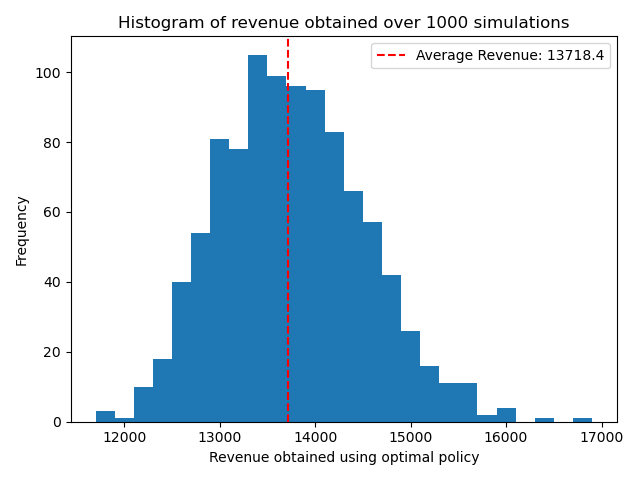
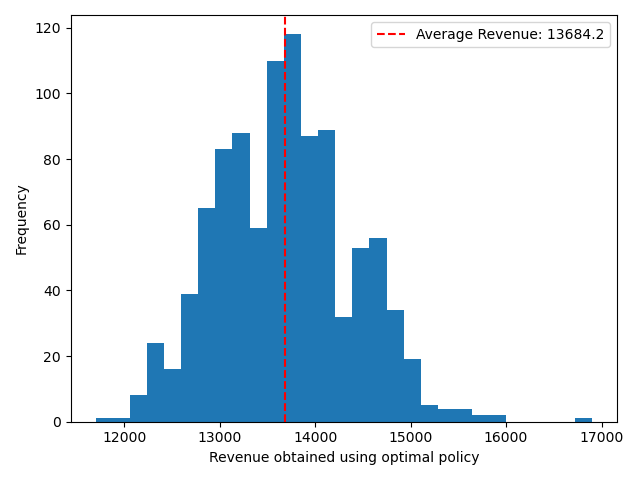
done

diff --git a/assignment1/ass1.py b/assignment1/ass1.py
@@ -75,6 +75,8 @@ def basic_inventory_dp(T_dim:int, X_dim:int, A:list, P:list,
             DP,
             POLICY)
 
+
+
 def plot_policy(Td:int, Xd:int, pol:ndarray, Actions:list,
                 name:str, show:bool = False)->None:
     X, Y = meshgrid(list(range(Td-1)),
@@ -101,12 +103,24 @@ def plot_policy(Td:int, Xd:int, pol:ndarray, Actions:list,
         plt.show()
     plt.close()
     
+
+
 def simulate(Td:int, Xd:int, A:list, P:list, policy:ndarray, 
              n_sim:int = 1000, show:bool = False) -> float:
+    '''
+    Produces histogram of revenue earned in T time over n simulations
+    Also produces an example plot earnings in a given simulation
+    '''
     maxrewards = []
-    for _ in range(n_sim):
+    for sim in range(n_sim):
         x = Xd - 1 
         revenue = 0
+
+        # example revenue plot
+        if sim == 0:
+            inventory_levels = [x]
+            revenue_levels = [0]
+
         for t in range(Td-2):
             # follow optimal policy
             action = policy[x,t]
@@ -118,14 +132,19 @@ def simulate(Td:int, Xd:int, A:list, P:list, policy:ndarray,
                 if uniform() < prob:
                     x -= 1
                     revenue += action
+                
+                if sim == 0:
+                    inventory_levels.append(x)
+                    revenue_levels.append(revenue)
 
         maxrewards.append(revenue)
 
     print('Mean expected revenue', meanrev := mean(maxrewards))
 
     plt.hist(maxrewards, bins = 'auto')
-    plt.title(f'Histogram of revenue obtained over {n_sim} simulations')
-    plt.axvline(x= meanrev, color = 'r', linestyle= "--", label = f'Average Revenue: {meanrev}') # mean expected revenue
+    # plt.title(f'Histogram of revenue obtained over {n_sim} simulations')
+    plt.axvline(x= meanrev, color = 'r', linestyle= "--", 
+                label = f'Average Revenue: {meanrev}') # mean expected revenue
     plt.ylabel('Frequency')
     plt.xlabel('Revenue obtained using optimal policy')
     plt.legend()
@@ -134,7 +153,34 @@ def simulate(Td:int, Xd:int, A:list, P:list, policy:ndarray,
     if show == True:
         plt.show()
     plt.close()
+
+    # example revenue plot
+    fig, ax1 = plt.subplots()
+    color = 'tab:red'
+    ax1.set_xlabel('Time Period')
+    ax1.set_ylabel(r'$Inventory\ Level\ (X_t)$', color=color)
+    ax1.plot(xax := range(len(inventory_levels)), inventory_levels, color=color)
+    ax1.tick_params(axis='y', labelcolor=color)
+
+    ax2 = ax1.twinx()  # instantiate a second Axes that shares the same x-axis
+
+    color = 'tab:blue'
+    ax2.set_ylabel(r'$Revenue\ \$\ (V_t)$', color=color) # we already handled the x-label with ax1
+    ax2.plot(xax, revenue_levels, color=color,
+             label = f'Earned revenue = {int(revenue_levels[-1])}$')
+    ax2.tick_params(axis='y', labelcolor=color)
+
+    plt.legend(loc = 8)
+    # plt.title(f'Example simulation run with {revenue_levels[-1]}$ revenue')
+    fig.tight_layout()  # otherwise the right y-label is slightly clipped
+    plt.savefig('example_run.png')
+    if show == True:
+        plt.show()
+    plt.close()
+
     return meanrev
+
+
 
 def parse_args():
     parser = argparse.ArgumentParser()
@@ -147,6 +193,7 @@ def parse_args():
     
     return parser.parse_args()
     
+
 
 if __name__ == '__main__':
     # GOAL: MAX SALES (max expected cumulative rewards)
@@ -175,7 +222,7 @@ if __name__ == '__main__':
     plot_policy(T_dim, X_dim, policy, A,
                 name = f'optimal_policy_{T_dim-1}_{X_dim-1}_{A}_partB.png', 
                 show = show_plots)
-    avg_reward = simulate(T_dim, X_dim, A, P, policy)
+    avg_reward = simulate(T_dim, X_dim, A, P, policy, show = show_plots)
 
     # Part D, E
     # State (Xt): (Inventory left at time t, PRICE at time t) TUPLE
